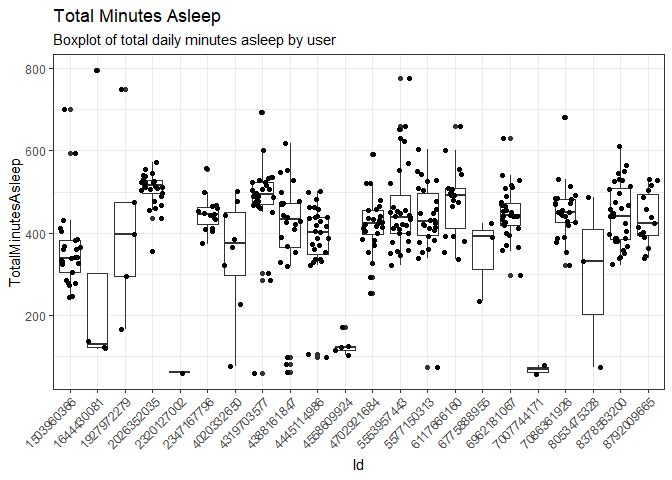
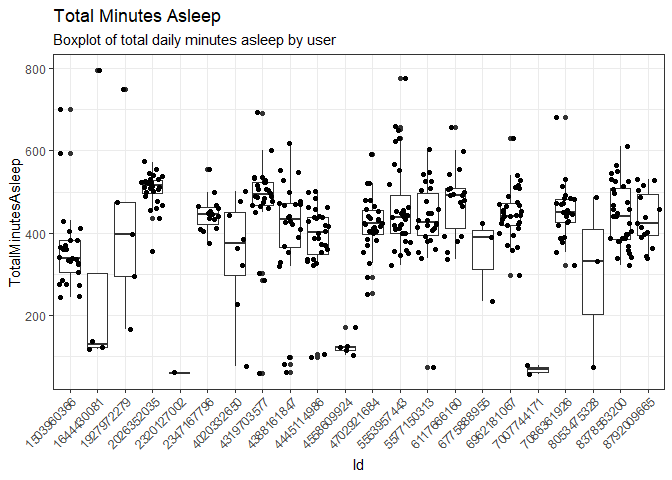
Finished with the data structure exploration and fixed some errors.

diff --git a/0_Fit_Bit_Tracker_Data_Sorting_and_Filtering.md b/0_Fit_Bit_Tracker_Data_Sorting_and_Filtering.md
@@ -13,8 +13,9 @@ exploration of the data’s quirks.
 ### Daily activity data
 
 I am loading the Ids as character because summary statistics like mean
-or meadian are irrelevant whereas string comparisons like do all have
-the same amount of characters and how many are unique are important.
+or median are irrelevant whereas string comparisons like “do all Ids
+have the same amount of characters” and “how many are unique” are
+important to know for knowing about the data integrity.
 
 ``` r
 data_path <- "../Fitabase Data 4.12.16-5.12.16/"
@@ -77,7 +78,7 @@ rendered as an html table, which is quite nice.
 What we can see from this summary:
 
 - 33 unique Ids, all have 10 characters.
-- Data was collected for 31 days.
+- Data was collected for 31 days, from april 12 to may 12.
 - The minimum for **all** numeric variables is 0. This suggests empty
   days, maybe just days that people did not wear their devices. These
   rows should be eliminated.
@@ -88,8 +89,10 @@ What we can see from this summary:
   most activity is done via trackerDistance rather than LoggedActivities
 
 Total distance is not the sum of TrackerDistance and
-LoggedActivitiesDistance, as one could assume. Rather it seems to be the
-sum of the ActiveDistances columns. Lack of metadata is killing me here.
+LoggedActivitiesDistance, as one could assume. For most records,
+TotalDistance and TrackerDistance are the same, thought there are
+exceptions. Rather it seems to be the sum of the ActiveDistances
+columns. Lack of metadata is killing me here.
 
 ``` r
 filter(dailyActivity, TotalDistance != (LoggedActivitiesDistance + TrackerDistance))
@@ -121,8 +124,10 @@ We group the days by Id and then plot a histogram of how many days
 people in the dataset were tracked
 ![](0_Fit_Bit_Tracker_Data_Sorting_and_Filtering_files/figure-gfm/number%20of%20days%20tracked-1.png)<!-- -->
 
+User **4057192912** is an outlier, having data only for four days.
+
 Running `select(dailyActivity, Id, ActivityDate) %>% distinct()` shows
-that there are no duplicate dates for any Id
+that there are no duplicate dates for any Id.
 
 Data seems very redundant. The files `dailyCalories_merged.csv`,
 `daily_Intensities_merged` and `dailySteps_merged.csv` are just column
@@ -132,8 +137,9 @@ subsets of `dailyActivity_merged.csv`
 
 ``` r
 heartrate_seconds <- read_csv(paste0(data_path,"heartrate_seconds_merged.csv"), 
-    col_types = cols(Id = col_character(), Time = col_character(), Value = col_double()))
-heartrate_date_time <- transmute(heartrate_seconds, Id, date_time = mdy_hms(Time), Value, hour_of_day = hms::as_hms(date_time), dia = date(date_time))
+    col_types = cols(Id = col_character(), Time = col_datetime(format = "%m/%d/%Y %H:%M:%S %p"), Value = col_double()))
+## Splitting the date time column into date and time
+heartrate_date_time <- transmute(heartrate_seconds, Id, date_time = Time, Value, hour_of_day = hms::as_hms(date_time), dia = date(date_time))
 skim_without_charts(heartrate_date_time)
 ```
 
@@ -294,7 +300,10 @@ fitbits for two months continuously. Heart rate data can be used in the
 analysis section to answer this question.
 
 ``` r
-hourlyActivity %>% select(Id, ActivityHour) %>% mutate(fecha = date(ActivityHour)) %>% group_by(Id) %>% mutate(gap = ActivityHour - lag(ActivityHour)) %>% ungroup() %>%  group_by(gap) %>% summarise(gaps = n())
+hourlyActivity %>% select(Id, ActivityHour) %>%
+  mutate(fecha = date(ActivityHour)) %>% 
+  group_by(Id) %>% 
+  mutate(gap = ActivityHour - lag(ActivityHour)) %>% ungroup() %>%  group_by(gap) %>% summarise(gaps = n())
 ```
 
     ## # A tibble: 2 x 2
@@ -303,13 +312,41 @@ hourlyActivity %>% select(Id, ActivityHour) %>% mutate(fecha = date(ActivityHour
     ## 1  1 hours 22066
     ## 2 NA hours    33
 
+Last, a summary table looking at when the tracking data begins and ends
+for each user: the beginning is the same for all: 12 am on april 12.
+This suggests that the data was cut to give them a consistent start
+date, because users did not just start using their tracker on midnight
+the same day. The end times are variable, even when most data ends on
+the same day.
+
+``` r
+hourlyActivity %>% group_by(Id) %>% summarise(beginning_of_tracking = min(ActivityHour), end_of_tracking = max(ActivityHour))
+```
+
+    ## # A tibble: 33 x 3
+    ##    Id         beginning_of_tracking end_of_tracking    
+    ##    <chr>      <dttm>                <dttm>             
+    ##  1 1503960366 2016-04-12 00:00:00   2016-05-11 20:00:00
+    ##  2 1624580081 2016-04-12 00:00:00   2016-05-12 15:00:00
+    ##  3 1644430081 2016-04-12 00:00:00   2016-05-11 11:00:00
+    ##  4 1844505072 2016-04-12 00:00:00   2016-05-12 10:00:00
+    ##  5 1927972279 2016-04-12 00:00:00   2016-05-12 15:00:00
+    ##  6 2022484408 2016-04-12 00:00:00   2016-05-12 15:00:00
+    ##  7 2026352035 2016-04-12 00:00:00   2016-05-12 15:00:00
+    ##  8 2320127002 2016-04-12 00:00:00   2016-05-12 14:00:00
+    ##  9 2347167796 2016-04-12 00:00:00   2016-04-29 05:00:00
+    ## 10 2873212765 2016-04-12 00:00:00   2016-05-12 15:00:00
+    ## # ... with 23 more rows
+
 ### Loading minute data
 
 Minute data has the peculiarity that each feature is present in **Wide**
 and **Narrow** modalities. My first guess was *Wide* meant that each
-user had its oen column, but it is actually that files have a row per
-hour and each column is a minute. This is awful, but a good opportunity
-to try the package called “lubridate”.
+user had its own column, but it is actually that files have a row per
+hour and each column is a minute. I do not understand the rationality
+behind this, but wide formats are often useful for visualizations. In
+any case, it is a good opportunity to use the package called
+“lubridate”.
 
 The features present with minute resolution are:
 
@@ -385,10 +422,10 @@ minuteCalories
     ## # ... with 1,346,210 more rows
 
 ``` r
-#Group the minuteCalories by hour and sum the cals. A column in the summerise function lets us check that we are not including hours where not all minutes are present
-minuteCalories2hour <- minuteCalories %>% transmute(Id, 
-                                                    ActivityHour = date(ActivityMinute) + hours(hour(ActivityMinute)), 
-                                                    Calories) %>% group_by(Id, ActivityHour) %>% summarise(Calories = round(sum(Calories)), n_minutes = n())
+#Group the minuteCalories by hour and sum the cals. A column in the summarise function lets us check that we are not including hours where not all minutes are present
+minuteCalories2hour <- minuteCalories %>% transmute(Id, ActivityHour = date(ActivityMinute) + hours(hour(ActivityMinute)), Calories) %>%
+group_by(Id, ActivityHour) %>% 
+summarise(Calories = round(sum(Calories)), n_minutes = n())
 
 minuteCalories2hour <- minuteCalories2hour %>% filter(n_minutes == 60) %>% select(-n_minutes)
 setdiff(minuteCalories2hour, hourlyCalories)
@@ -411,14 +448,18 @@ setdiff(minuteCalories2hour, hourlyCalories)
     ## # ... with 328 more rows
 
 Not clear what is going on. A clue might be in the days that do not have
-the full 24 hours.
+the full 24 hours. That is, the hourly data only has 24 hour days. But
+the minute data includes the hours from the days where this is not the
+case. Even though the number of different rows are small, the
+discrepancy should be taken into account depending on the analysis.
 
 #### Intensities and Steps data
 
 We loaded Intensities and steps data, which are also in Wide/Narrow
 formats and did the same operations as above for the calories,
 therefore, we do not show that code here. Nevertheless, we will merge
-the three files into a single minute dataframe.
+the three files into a single minute dataframe called “minuteActivity”
+that will be used in the next section.
 
 ### Loading METs data
 
@@ -426,8 +467,8 @@ METs, or [Metabolically equivalent
 minutes](https://en.wikipedia.org/wiki/Metabolic_equivalent_of_task) is,
 according to wikipedia: “the objective measure of the ratio of the rate
 at which a person expends energy, relative to the mass of that person”.
-It also says it is a way to grade activity levels.Therefore, we will
-join it with the minute dataset in order to compare the relationships
+It also says it is a way to grade activity levels. Therefore, we will
+join it with the minute data set in order to compare the relationships
 between them.
 
 ``` r
@@ -448,8 +489,8 @@ grid.arrange(g1,g2,g3,g4, nrow = 2)
 
 The relationship between these variables depends on the heart rate and
 on the body weight, that is why the graphs are so unclear. Nevertheless,
-the graph between METs and calories suggests that there is linear
-relationship between them that depends only on each user.
+the graph between METs and calories (bottom left) suggests that there is
+linear relationship between them that depends only on each user.
 
 ### Loading sleep data
 
@@ -493,10 +534,13 @@ sleepDay %>% ggplot(aes(x = Id, y = TotalMinutesAsleep)) + geom_boxplot() + geom
 ```
 
 ![](0_Fit_Bit_Tracker_Data_Sorting_and_Filtering_files/figure-gfm/sleep-1.png)<!-- -->
+
 From the above graph, it is clear that the data for 2026 and 7007 is
-also unreliable due to very few datapoints and less than 100 minutes of
-sleep. We will filter records from users with fewer than 3 days of sleep
-tracking:
+also unreliable due to very few data points and less than 100 minutes of
+sleep. It is not clear that we should filter all the records that are
+lower than 200 without further data exploration. People are able to
+sleep for less than 3 hours for a few days. We will filter records from
+users with fewer than 3 days of sleep tracking, though:
 
 ``` r
 sleepDay <- sleepDay %>% group_by(Id) %>% filter(n()>3)
